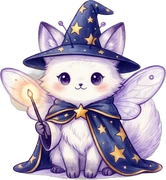
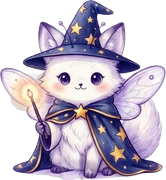
Build 382: Старший маг outfits of the moth-fox, petalear and fernhorn have 4 limbs (Maria: «рук больше чем нужно», «Там 5 лап а не 4»): the paw with the wand or staff plus two front legs plus two hind paws made 5; the left front leg is gone, chest fur painted in its place (SYNTX Nano Banana editor w

diff --git a/js/game.js b/js/game.js
@@ -2,12 +2,12 @@
 import {
   OFFLINE_CAP_SEC, MAX_DESKS, MAX_ITEM_LEVEL, MAX_TEACHER_LEVEL, MAX_TIME_LEVEL,
   CLASSES, SPECIES, NAMES, MISSIONS, WORLDS, WORLD, META,
-} from './data.js?v=381';
-import { EMOJI_RE, emojiImage, preloadEmoji, watchEmoji, emojiHtml } from './emoji.js?v=381';
-import { initMinigame } from './minigame.js?v=381';
-import { initChests } from './chests.js?v=381';
-import { initLore } from './lore.js?v=381';
-import { initAvatar } from './avatar.js?v=381';
+} from './data.js?v=382';
+import { EMOJI_RE, emojiImage, preloadEmoji, watchEmoji, emojiHtml } from './emoji.js?v=382';
+import { initMinigame } from './minigame.js?v=382';
+import { initChests } from './chests.js?v=382';
+import { initLore } from './lore.js?v=382';
+import { initAvatar } from './avatar.js?v=382';
 // mini-game «Зельеварка» (match-3, js/minigame.js): a pill on the main screen, its own overlay; the school keeps living under it
 const MG = initMinigame({ state: () => S, earn: (n) => earn(n), save: () => save(), toast: (t) => toast(t), fmt: (n) => fmt(n), emojiHtml, emojiImage,
   audioOut: () => { if (!sfxOn() || document.hidden) return null; const c = audio(); return c && c.state === 'running' ? { c, out: AOUT } : null; },
@@ -30,7 +30,7 @@ const LORE = initLore({ state: () => S, save: () => save(), emojiHtml, on: () =>
 const SAVE_KEY = WORLD === 1 ? 'magicschool.save.v2' : 'magicschool.save.v2.w' + WORLD;   // every world keeps its own save
 const saveKeyOf = (w) => (w === 1 ? 'magicschool.save.v2' : 'magicschool.save.v2.w' + w);
 const VERSION = '0.9';
-const BUILD = 381;   // keep equal to the ?v= number in index.html
+const BUILD = 382;   // keep equal to the ?v= number in index.html
 const $ = (s, r = document) => r.querySelector(s);
 const rnd = (a) => a[Math.floor(Math.random() * a.length)];
 
@@ -1791,7 +1791,7 @@ function rankSection(i) {   // the class panel part about the rank exam held her
     <div class="card up"><span class="remoji">📈</span><div class="grow"><b>Опыт</b> <span class="muted">ур. ${xplLvl(i)}/${MAX_XPL_LVL}</span><div class="muted">за урок здесь карточка ученика получает +${1 + xplLvl(i)} опыта</div></div>
       ${xplLvl(i) >= MAX_XPL_LVL ? '<span class="done">макс.</span>' : costBtn('↑', xplCost(i), 'xpllvl', `data-i="${i}"`)}</div>`;
 }
-const formImg = (k) => { const [sp, rk, el] = k.split(':'); if (+rk === 5 && sprites[sp + '_m' + el]?.naturalWidth) return `assets/creatures/${sp}_m${el}.png?v=1`; const t = Math.min(4, +rk); return `assets/creatures/${sp}${t ? '_t' + t : ''}.png${t ? '?v=1' : ''}`; };
+const formImg = (k) => { const [sp, rk, el] = k.split(':'); if (+rk === 5 && sprites[sp + '_m' + el]?.naturalWidth) return `assets/creatures/${sp}_m${el}.png?v=1`; const t = Math.min(4, +rk); return `assets/creatures/${sp}${t ? '_t' + t : ''}.png${t ? '?v=' + (TIER_V[sp] || 1) : ''}`; };   // the album follows TIER_V too
 let albumSp = SPECIES[0];
 function formCounts() {   // how many of each form are in the school now: students, tower residents, helper mages
   const c = {}, inc = (k) => { c[k] = (c[k] || 0) + 1; };
@@ -2465,7 +2465,7 @@ const staffSprite = (f) => WORLD <= 2 && STAFF_OTHER.includes(f) && sprites['sta
 for (const [k, f] of Object.entries(WORLD === 2 ? STAFF_ART_W2 : STAFF_ART)) { const im = new Image(); im.src = `assets/staff/${f}.png?v=${STAFF_V[f] ? 10 + STAFF_V[f] : 3}`; sprites['staff_' + k] = im; }
 const M_ART_W2 = ['mossmole', 'owlbat', 'quartzhog', 'batbunny', 'geosnail', 'axolotl'];   // world-2 keepers drawn so far
 if (WORLD <= 2) for (const sp of (WORLD === 2 ? M_ART_W2 : SPECIES)) for (let e = 0; e < 4; e++) for (const v of ['', '_back']) { const im = new Image(); im.onerror = () => {}; im.src = `assets/creatures/${sp}_m${e}${v}.png?v=1`; sprites[sp + '_m' + e + v] = im; }   // element masters (her «вау», 2026-11-22)
-const TIER_V = { owlbat: 2 };   // outfit pictures redrawn under the same names get a new cache version
+const TIER_V = { owlbat: 2, mothfox: 2, petalear: 2, fernhorn: 2 };   // + build of the paws fix: the Старший маг (t4) of mothfox, petalear and fernhorn had 5 limbs (her «рук больше чем нужно»)   // outfit pictures redrawn under the same names get a new cache version
 if (WORLD <= 2) for (const sp of SPECIES) for (let t = 1; t < 5; t++) for (const v of ['', '_back']) { const im = new Image(); im.onerror = () => {}; im.src = `assets/creatures/${sp}_t${t}${v}.png?v=${TIER_V[sp] || 1}`; sprites[sp + '_t' + t + v] = im; }   // outfit stages (drawn later; missing ones fall back)
 for (const sp of SPECIES) for (const v of ['', '_back']) { const im = new Image(); im.src = `assets/creatures/${sp}${v}.png`; sprites[sp + v] = im; }   // front and back views
 // court poses (build 264, her pick «2»: real poses instead of icons; first test sheet: the moth fox without an outfit)

diff --git a/index.html b/index.html
@@ -12,7 +12,7 @@
 <link rel="manifest" href="manifest.webmanifest">
 <link rel="apple-touch-icon" href="icons/icon-180.png?v=2">
 <link rel="icon" href="icons/icon-192.png?v=2">
-<link rel="stylesheet" href="style.css?v=381">
+<link rel="stylesheet" href="style.css?v=382">
 <script>/* iOS home-screen app: innerHeight / 100% / 100dvh are short by the status bar, a strip stayed at the bottom (her screenshots, builds 200-203); use the real screen height */
 (function(){function fit(){if(!(navigator.standalone||matchMedia('(display-mode: standalone)').matches))return;var h=Math.max(window.innerHeight,(Math.abs(window.orientation||0)===90?screen.width:screen.height));var r=document.documentElement;r.style.height=h+'px';if(document.body){document.body.style.height=h+'px';document.body.style.bottom='auto';}}fit();addEventListener('DOMContentLoaded',fit);addEventListener('resize',fit);addEventListener('orientationchange',function(){setTimeout(fit,300);});})();</script>
 </head>
@@ -72,6 +72,6 @@ setTimeout(function(){ if (window.__booted) return; var d=document.createElement
   d.querySelector('button').onclick=function(){ location.reload(); }; document.body.appendChild(d); }, 12000);
 if(!CanvasRenderingContext2D.prototype.roundRect){CanvasRenderingContext2D.prototype.roundRect=function(x,y,w,h){this.rect(x,y,w,h);};}
 </script>
-<script type="module" src="js/game.js?v=381"></script>
+<script type="module" src="js/game.js?v=382"></script>
 </body>
 </html>

diff --git a/js/emoji.js b/js/emoji.js
@@ -1,6 +1,6 @@
 // One emoji look on every device: emoji characters are replaced by bundled Twemoji pictures
 // (CC-BY 4.0, https://github.com/jdecked/twemoji), both in the page (DOM) and on the canvas.
-import { EMOJI_FILES } from './emoji-set.js?v=381';
+import { EMOJI_FILES } from './emoji-set.js?v=382';
 
 export const EMOJI_RE = /\p{Extended_Pictographic}(?:|\p{Extended_Pictographic}?|[\u{1F3FB}-\u{1F3FF}])*/gu;
 
